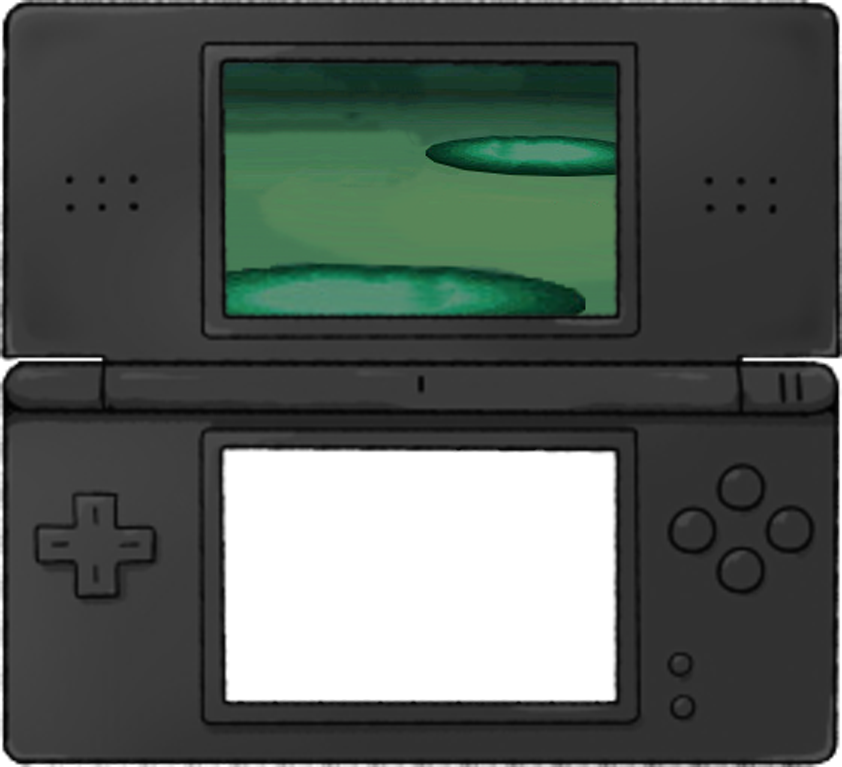
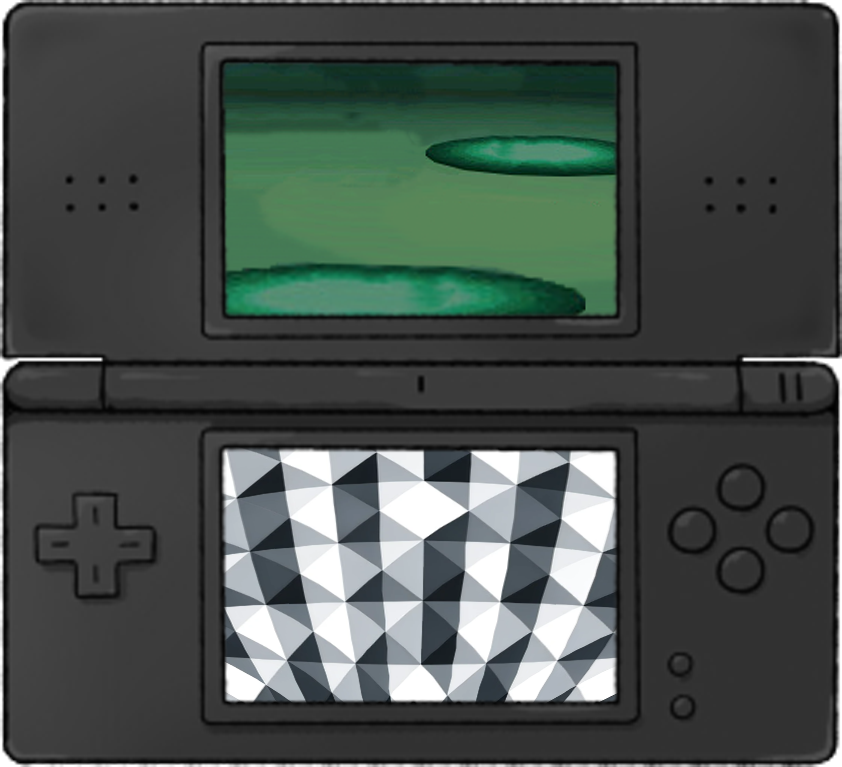
modified main-menu, finish

Changed region(s): [[0.247, 0.5698, 0.7411, 0.9296]]

diff --git a/src/sass/modules/_section-2.sass b/src/sass/modules/_section-2.sass
@@ -15,9 +15,11 @@
         .consol
             position: relative
             width: max-content
+            overflow: hidden
             img
                 position: relative
                 width: 840px
+                overflow: hidden
         .dual-screen
             position: absolute
             display: flex
@@ -52,17 +54,39 @@
                             height: 100px
                             padding-left: 30px
             .contener-bot
-                background: linear-gradient( rgba(0, 0, 0, 0.3), rgba(0, 0, 0, 0.3) ), url("../assets/image/menu-bg.png")
-                background-size: 100%
                 height: 260px
                 width: 400px
-                z-index: -1
-                #main-menu
+                z-index: 0
+                .main-menu
                     height: 260px
                     width: 400px
-                    display: flex
+                    display: none
                     justify-content: center
                     align-items: center
+                    button
+                        cursor: pointer
+                        height: 75px
+                        width: 190px
+                        border: transparent solid 10px
+                        border-top: grey solid 5px
+                        border-left: grey solid 5px
+                        border-bottom: black solid 5px
+                        border-right: black solid 5px
+                        transition: all 0.1s ease
+                        p
+                            font-family: "dogicapixelblod"
+                    button:hover
+                        background: #333333
+                        color: #FFF
+                        border-bottom: black solid 10px
+                        border-right: black solid 10px
+                        margin-bottom: 5px
+                    button:active
+                        background: #000
+                        color: #FFF
+                        border-bottom: black solid 0px
+                        border-right: black solid 0px
+                        margin-bottom: -5px
 
 
 /* ######### RESPONSIVE ######### */

diff --git a/public/style/app.css b/public/style/app.css
@@ -13,7 +13,7 @@
 }
 @font-face {
   font-family: "dogicapixelblod";
-  src: url("../assets/fonts/dogicapixelblod.ttf");
+  src: url("../assets/fonts/dogicapixelbold.ttf");
 }
 /* ############ BODY ############  */
 * {
@@ -91,10 +91,12 @@ header nav p {
 .gameplay .gameplay-contener .consol {
   position: relative;
   width: max-content;
+  overflow: hidden;
 }
 .gameplay .gameplay-contener .consol img {
   position: relative;
   width: 840px;
+  overflow: hidden;
 }
 .gameplay .gameplay-contener .dual-screen {
   position: absolute;
@@ -135,18 +137,44 @@ header nav p {
   padding-left: 30px;
 }
 .gameplay .gameplay-contener .dual-screen .contener-bot {
-  background: linear-gradient(rgba(0, 0, 0, 0.3), rgba(0, 0, 0, 0.3)), url("../assets/image/menu-bg.png");
-  background-size: 100%;
   height: 260px;
   width: 400px;
-  z-index: -1;
+  z-index: 0;
 }
-.gameplay .gameplay-contener .dual-screen .contener-bot #main-menu {
+.gameplay .gameplay-contener .dual-screen .contener-bot .main-menu {
   height: 260px;
   width: 400px;
-  display: flex;
+  display: none;
   justify-content: center;
   align-items: center;
+}
+.gameplay .gameplay-contener .dual-screen .contener-bot .main-menu button {
+  cursor: pointer;
+  height: 75px;
+  width: 190px;
+  border: transparent solid 10px;
+  border-top: grey solid 5px;
+  border-left: grey solid 5px;
+  border-bottom: black solid 5px;
+  border-right: black solid 5px;
+  transition: all 0.1s ease;
+}
+.gameplay .gameplay-contener .dual-screen .contener-bot .main-menu button p {
+  font-family: "dogicapixelblod";
+}
+.gameplay .gameplay-contener .dual-screen .contener-bot .main-menu button:hover {
+  background: #333333;
+  color: #FFF;
+  border-bottom: black solid 10px;
+  border-right: black solid 10px;
+  margin-bottom: 5px;
+}
+.gameplay .gameplay-contener .dual-screen .contener-bot .main-menu button:active {
+  background: #000;
+  color: #FFF;
+  border-bottom: black solid 0px;
+  border-right: black solid 0px;
+  margin-bottom: -5px;
 }
 
 /* ######### RESPONSIVE ######### */

diff --git a/index.html b/index.html
@@ -60,7 +60,7 @@
                         </div>
                     </div>
                     <div class="screen contener-bot">
-                        <div id="main-menu">
+                        <div id="mainMenu" class="main-menu">
                             <button><p>CLICK TO PLAY</p></button>
                         </div>
                         <div id="game-menu">

diff --git a/src/sass/_fonts.sass b/src/sass/_fonts.sass
@@ -13,4 +13,4 @@
 
 @font-face
     font-family: "dogicapixelblod"
-    src: url("../assets/fonts/dogicapixelblod.ttf")
+    src: url("../assets/fonts/dogicapixelbold.ttf")
